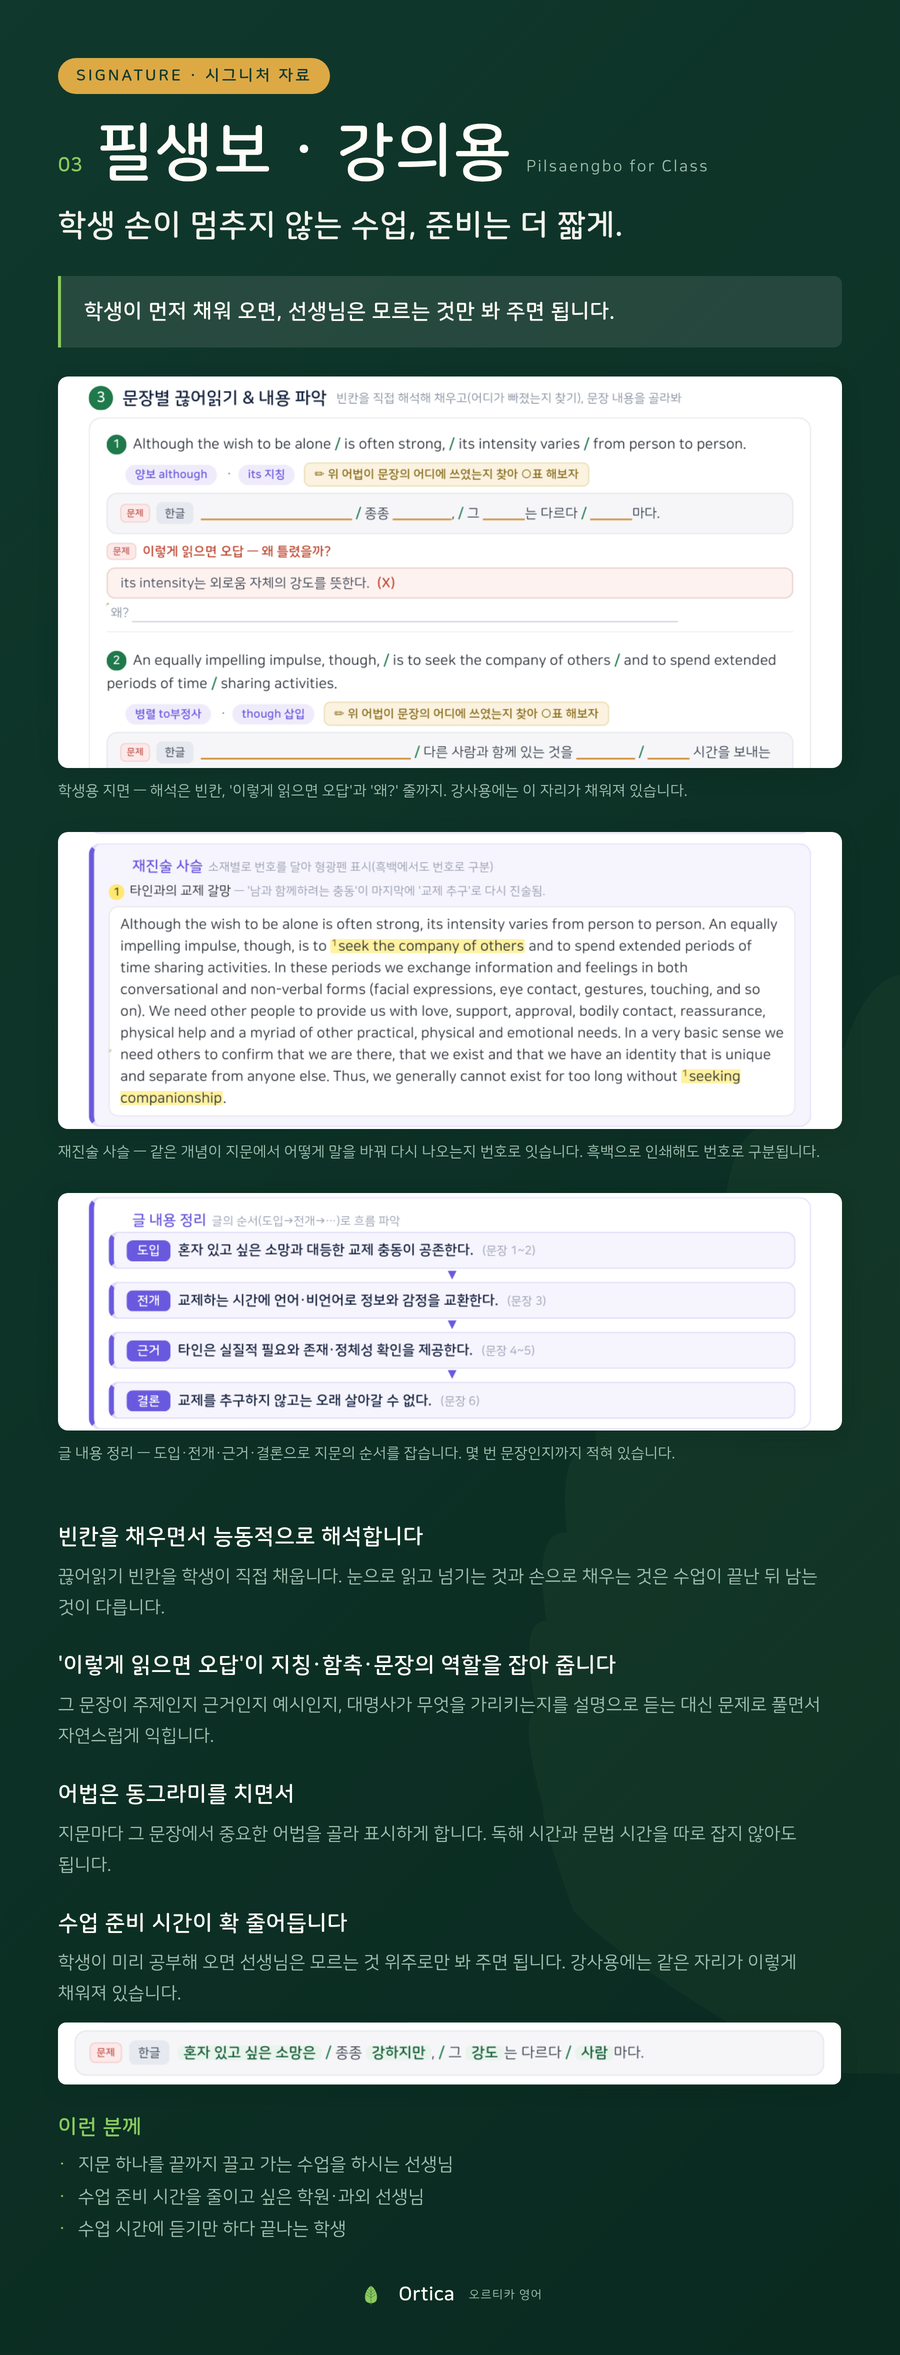
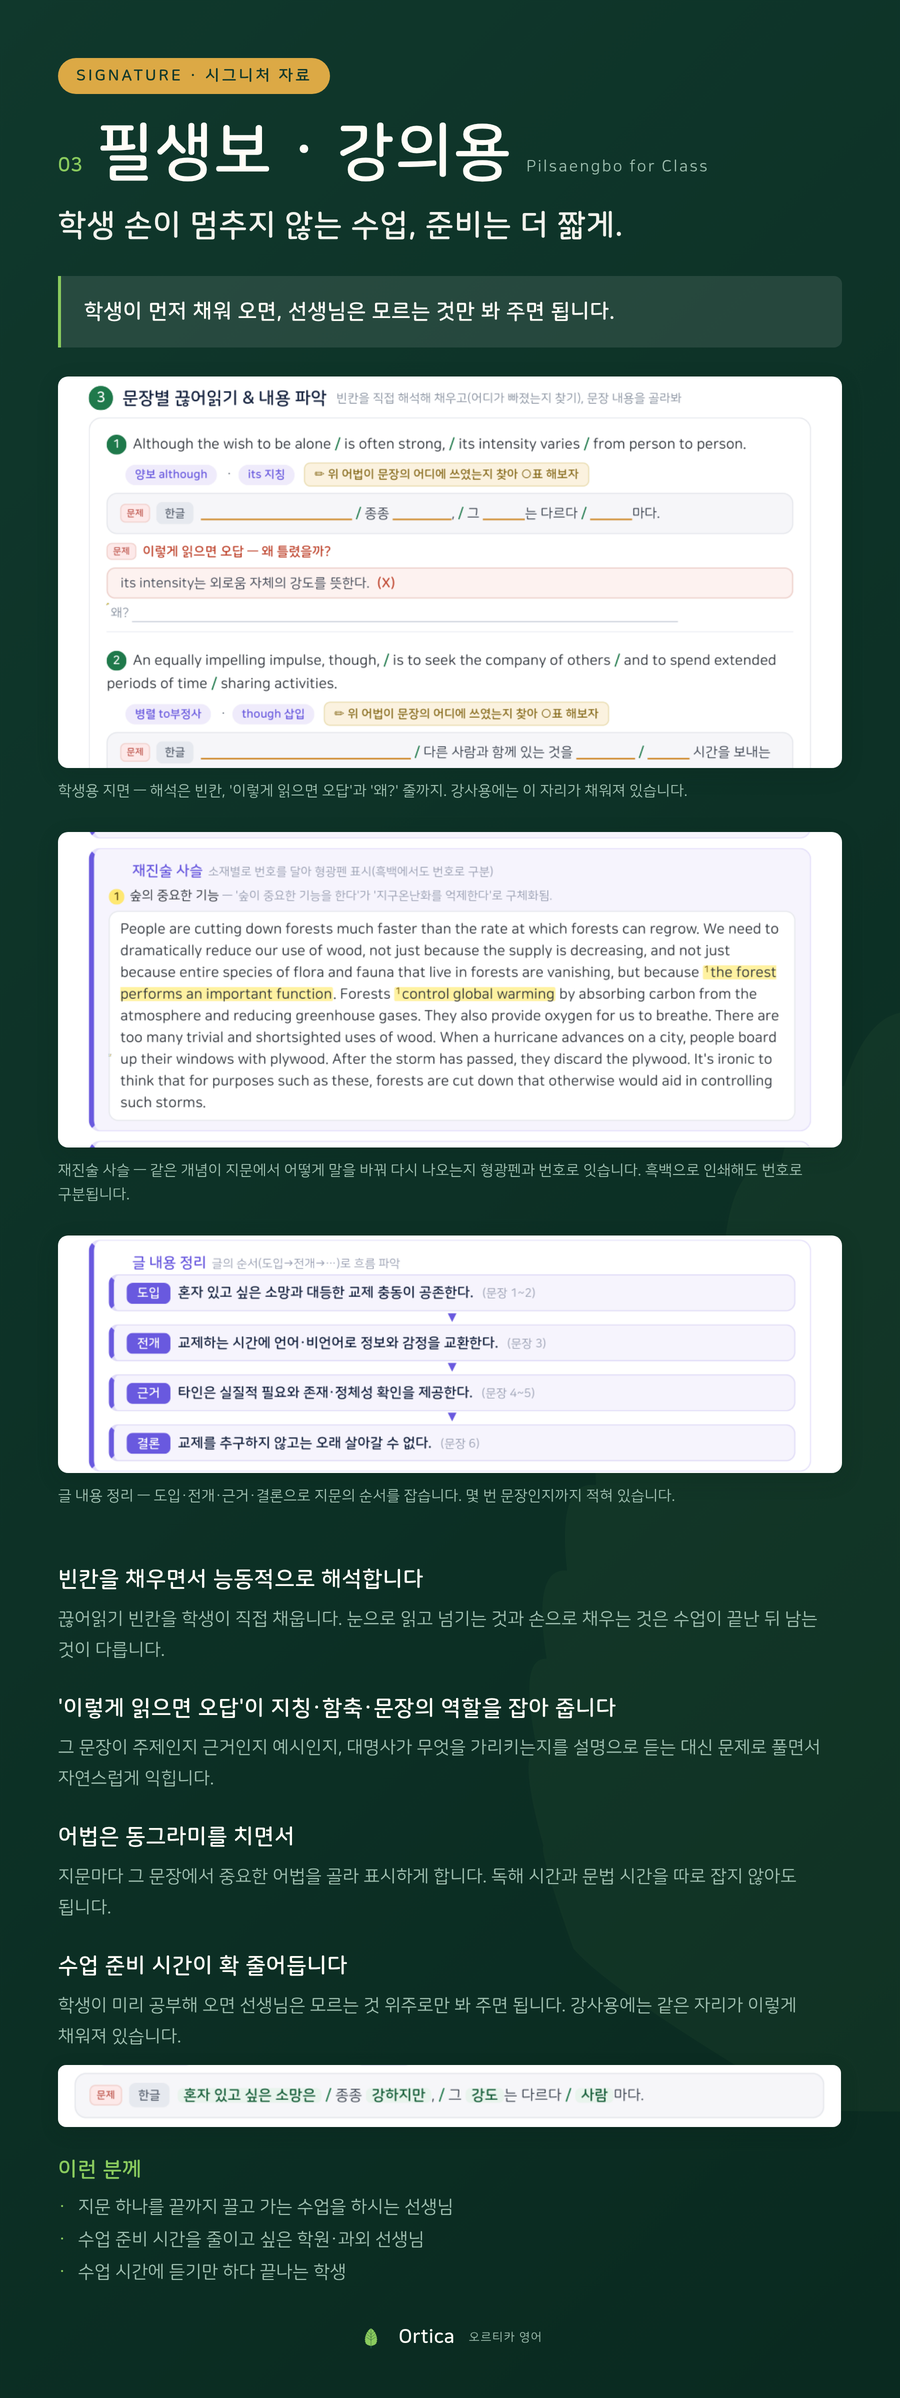
재진술 사슬을 형광펜이 더 잘 보이는 지문으로 교체
강사용 세 지문의 글 정리를 다 확인했다. 재진술 형광펜은 지문당 두 곳이 이
자료의 설계라 더 칠해진 지면은 없다. 다만 지문 3(숲·목재)은 두 곳이 문단
가운데 붙어 있어 형광펜이 훨씬 눈에 띈다. 그쪽으로 바꾼다.

p16 을 pilsaengbo-summary2.png 로 새로 뽑고, 재진술 블록을 문단 끝까지
잘라 h-psbc-restate2.png 로 쓴다.

Claude-Session: https://claude.ai/code/session_015BpsJgtaBR6xs1aCKnE4xw

diff --git a/brand/pdf_samples.py b/brand/pdf_samples.py
@@ -68,6 +68,7 @@ SHOTS = [
     # 필생보 강의용 — 강사용 / 학생 문제지 / 글 정리
     Shot("pilsaengbo.png", 1, head=["필생보", "강사용"]),
     Shot("pilsaengbo-summary.png", 3, head=["필생보", "강사용"]),
+    Shot("pilsaengbo-summary2.png", 15, head=["필생보", "강사용"]),
     Shot("pilsaengbo-student.png", 1, head=["학생 문제지"]),
 
     # 필생보 독학용 — 표지·목차 말고 실제로 푸는 지면 위주
@@ -178,6 +179,7 @@ CROPS = [
     ("pilsaengbo-student.png", "h-psbc.png", (0.03, 0.055, 0.97, 0.470)),
     ("pilsaengbo-summary.png", "h-psbc-restate.png", (0.03, 0.310, 0.97, 0.625)),
     ("pilsaengbo-summary.png", "h-psbc-flow.png", (0.03, 0.628, 0.97, 0.880)),
+    ("pilsaengbo-summary2.png", "h-psbc-restate2.png", (0.03, 0.305, 0.97, 0.640)),
     ("psb-answer.png", "h-psbs-catch.png", (0.02, 0.015, 0.98, 0.450)),
     ("workbook-integrated-pronoun.png", "h-wbi-pron.png", (0.02, 0.020, 0.98, 0.500)),
     ("psb-solve.png", "h-psbs.png", (0.02, 0.020, 0.98, 0.420)),

diff --git a/brand/catalog.py b/brand/catalog.py
@@ -155,8 +155,8 @@ MATERIALS: list[Item] = [
         halves=[
             ("h-psbc.png",
              "학생용 지면 — 해석은 빈칸, '이렇게 읽으면 오답'과 '왜?' 줄까지. 강사용에는 이 자리가 채워져 있습니다."),
-            ("h-psbc-restate.png",
-             "재진술 사슬 — 같은 개념이 지문에서 어떻게 말을 바꿔 다시 나오는지 번호로 잇습니다. 흑백으로 인쇄해도 번호로 구분됩니다."),
+            ("h-psbc-restate2.png",
+             "재진술 사슬 — 같은 개념이 지문에서 어떻게 말을 바꿔 다시 나오는지 형광펜과 번호로 잇습니다. 흑백으로 인쇄해도 번호로 구분됩니다."),
             ("h-psbc-flow.png",
              "글 내용 정리 — 도입·전개·근거·결론으로 지문의 순서를 잡습니다. 몇 번 문장인지까지 적혀 있습니다."),
         ],
